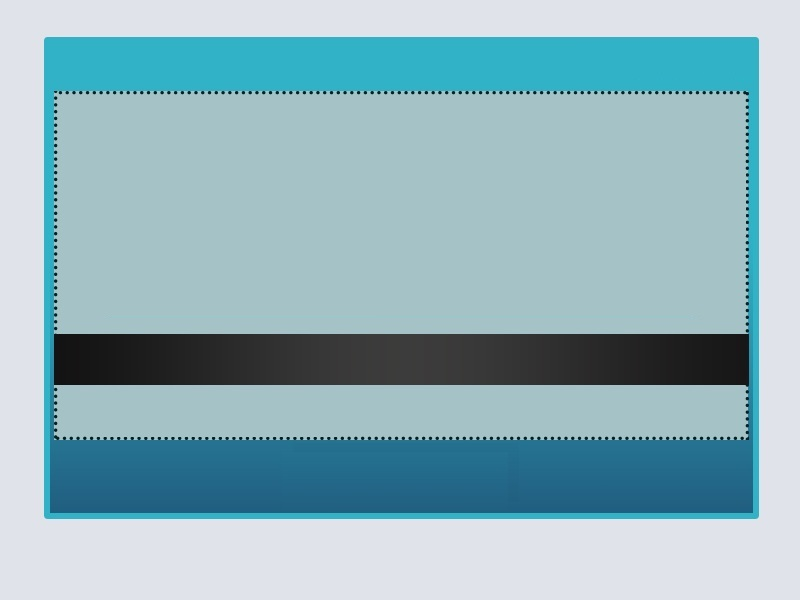
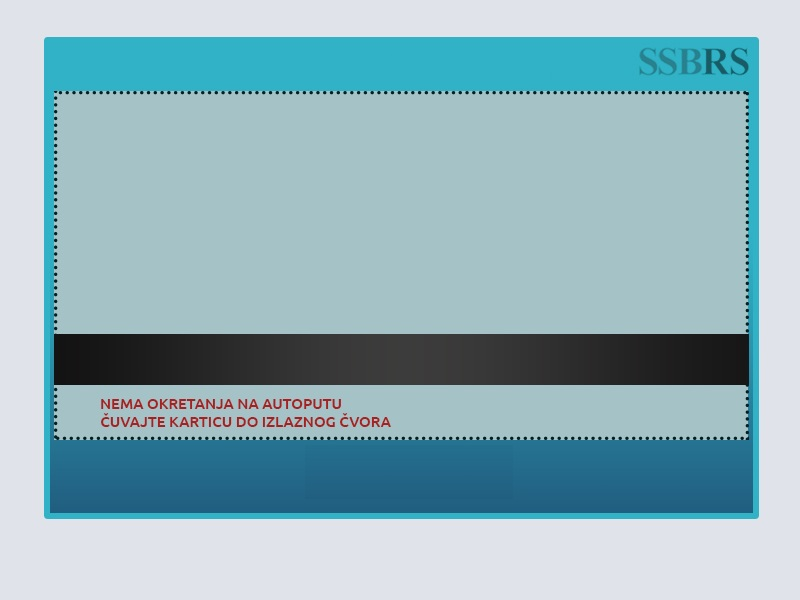
izmjena na izdaj potvrdu formi

Changed region(s): [[0.125, 0.66, 0.5, 0.72], [0.7812, 0.06, 0.9375, 0.12]]

diff --git a/Izlazak sa autoputa/src/ssbrs/ulaz/IzdajPotvrdu.java b/Izlazak sa autoputa/src/ssbrs/ulaz/IzdajPotvrdu.java
@@ -32,8 +32,13 @@ public class IzdajPotvrdu extends javax.swing.JFrame {
 
         jPanel1 = new javax.swing.JPanel();
         jLabel1 = new javax.swing.JLabel();
+        jLabel2 = new javax.swing.JLabel();
+        jLabel3 = new javax.swing.JLabel();
+        jTextField1 = new javax.swing.JTextField();
+        jTextField2 = new javax.swing.JTextField();
+        jTextField3 = new javax.swing.JTextField();
+        jButton1 = new javax.swing.JButton();
         jLabel4 = new javax.swing.JLabel();
-        jLabel5 = new javax.swing.JLabel();
 
         setDefaultCloseOperation(javax.swing.WindowConstants.EXIT_ON_CLOSE);
         setResizable(false);
@@ -45,15 +50,47 @@ public class IzdajPotvrdu extends javax.swing.JFrame {
         jLabel1.setText("PREGLED POTVRDE");
         jLabel1.setToolTipText("");
         jPanel1.add(jLabel1);
-        jLabel1.setBounds(230, 40, 320, 40);
+        jLabel1.setBounds(240, 40, 320, 40);
+
+        jLabel2.setFont(new java.awt.Font("Tahoma", 0, 24)); // NOI18N
+        jLabel2.setText("Autoput - Bosna i Hercegovina");
+        jLabel2.setToolTipText("");
+        jPanel1.add(jLabel2);
+        jLabel2.setBounds(100, 100, 360, 30);
+
+        jLabel3.setFont(new java.awt.Font("Tahoma", 0, 24)); // NOI18N
+        jLabel3.setText("Naplatna kartica broj :");
+        jPanel1.add(jLabel3);
+        jLabel3.setBounds(100, 130, 250, 30);
+
+        jTextField1.setBackground(new java.awt.Color(0, 153, 153));
+        jTextField1.setFont(new java.awt.Font("Tahoma", 0, 24)); // NOI18N
+        jTextField1.setForeground(new java.awt.Color(204, 204, 204));
+        jPanel1.add(jTextField1);
+        jTextField1.setBounds(100, 180, 600, 40);
+
+        jTextField2.setBackground(new java.awt.Color(0, 153, 153));
+        jTextField2.setFont(new java.awt.Font("Tahoma", 0, 24)); // NOI18N
+        jTextField2.setForeground(new java.awt.Color(204, 204, 204));
+        jPanel1.add(jTextField2);
+        jTextField2.setBounds(100, 230, 600, 40);
+
+        jTextField3.setBackground(new java.awt.Color(0, 153, 153));
+        jTextField3.setFont(new java.awt.Font("Tahoma", 0, 24)); // NOI18N
+        jTextField3.setForeground(new java.awt.Color(204, 204, 204));
+        jPanel1.add(jTextField3);
+        jTextField3.setBounds(100, 280, 600, 40);
+
+        jButton1.setBackground(new java.awt.Color(0, 153, 153));
+        jButton1.setFont(new java.awt.Font("Tahoma", 0, 24)); // NOI18N
+        jButton1.setForeground(new java.awt.Color(204, 204, 204));
+        jButton1.setText("Štampaj");
+        jPanel1.add(jButton1);
+        jButton1.setBounds(320, 450, 160, 60);
 
         jLabel4.setIcon(new javax.swing.ImageIcon(getClass().getResource("/ssbrs/ulaz/RAD1.jpg"))); // NOI18N
         jPanel1.add(jLabel4);
         jLabel4.setBounds(0, 0, 800, 600);
-
-        jLabel5.setText("jLabel5");
-        jPanel1.add(jLabel5);
-        jLabel5.setBounds(110, 284, 590, 30);
 
         javax.swing.GroupLayout layout = new javax.swing.GroupLayout(getContentPane());
         getContentPane().setLayout(layout);
@@ -112,9 +149,14 @@ public class IzdajPotvrdu extends javax.swing.JFrame {
     }
 
     // Variables declaration - do not modify//GEN-BEGIN:variables
+    private javax.swing.JButton jButton1;
     private javax.swing.JLabel jLabel1;
+    private javax.swing.JLabel jLabel2;
+    private javax.swing.JLabel jLabel3;
     private javax.swing.JLabel jLabel4;
-    private javax.swing.JLabel jLabel5;
     private javax.swing.JPanel jPanel1;
+    private javax.swing.JTextField jTextField1;
+    private javax.swing.JTextField jTextField2;
+    private javax.swing.JTextField jTextField3;
     // End of variables declaration//GEN-END:variables
 }
